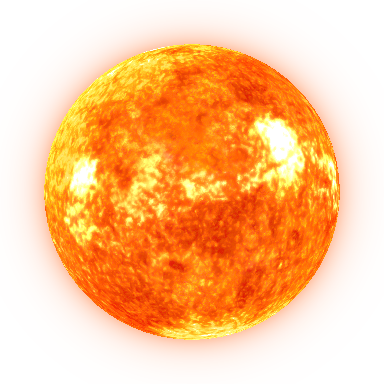
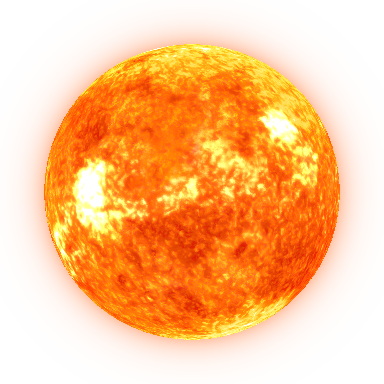
fix(objects): correct mirrored planetary longitudes and regenerate previews

diff --git a/packages/core/gate/planet-orientation.test.ts b/packages/core/gate/planet-orientation.test.ts
@@ -1,0 +1,54 @@
+import {afterEach, describe, expect, it, vi} from "vitest";
+import {createCanvasPlanetRenderer} from "../src/objects/planet-canvas-renderer";
+
+// Asymmetric equirectangular map: red increases west → east, green north → south.
+// Exercise the real pixel renderer; only image decoding and canvas storage are mocked.
+const width=256, height=128, size=65;
+function texture(cloud=false) {
+  const data=new Uint8ClampedArray(width*height*4);
+  for(let y=0;y<height;y++)for(let x=0;x<width;x++) {
+    const i=(y*width+x)*4;
+    data[i]=cloud?(x<width/2?255:0):Math.round(x/width*200);
+    data[i+1]=cloud?0:Math.round(y/height*200);
+    data[i+2]=cloud?0:40; data[i+3]=255;
+  }
+  return data;
+}
+afterEach(()=>vi.unstubAllGlobals());
+async function scene(clouds=false) {
+  const maps={surface:texture(),clouds:texture(true),black:new Uint8ClampedArray(width*height*4)};
+  class ImageStub {
+    width=width; height=height; data=new Uint8ClampedArray(); onload?:()=>void;
+    set src(value:string) {this.data=maps[value as keyof typeof maps];queueMicrotask(()=>this.onload?.());}
+  }
+  vi.stubGlobal("Image",ImageStub);
+  vi.stubGlobal("document",{createElement(){let data:Uint8ClampedArray;return {width,height,getContext(){return {
+    drawImage(img:ImageStub){data=img.data;},getImageData(){return {data};},
+  };}};}});
+  let pixels=new Uint8ClampedArray();
+  const canvas={width:size,height:size,getContext(){return {
+    createImageData(w:number,h:number){return {data:new Uint8ClampedArray(w*h*4)};},
+    putImageData(image:{data:Uint8ClampedArray}){pixels=image.data;},
+  };}} as unknown as HTMLCanvasElement;
+  const renderer=createCanvasPlanetRenderer(canvas,{surface:clouds?"black":"surface",clouds:clouds?"clouds":undefined,atmosphere:[0,0,0],star:true});
+  await renderer.ready;
+  return {renderer,pixel(x:number,y:number,channel=0){return pixels[(y*size+x)*4+channel];}};
+}
+describe("planet map orientation",()=>{
+  it.each([false,true])("keeps east right and north up, illustrated=%s",async illustrated=>{
+    const {renderer,pixel}=await scene();
+    for(const rotation of [-.25,0,.125]) {
+      renderer.draw({rotation,tilt:0,pitch:0,illustrated});
+      expect(pixel(20,32)).toBeLessThan(pixel(44,32));
+      expect(pixel(32,20,1)).toBeLessThan(pixel(32,44,1));
+    }
+    renderer.dispose();
+  });
+  it("keeps the western cloud bank on the left of the same meridian",async()=>{
+    const {renderer,pixel}=await scene(true);
+    renderer.draw({rotation:-.25,tilt:0,pitch:0,illustrated:false});
+    expect(pixel(20,32)).toBeGreaterThan(100);
+    expect(pixel(44,32)).toBe(0);
+    renderer.dispose();
+  });
+});

diff --git a/packages/core/src/objects/planet-renderer.ts b/packages/core/src/objects/planet-renderer.ts
@@ -11,7 +11,8 @@ uniform vec3 atmosphereColor;
 const float PI=3.14159265359;
 mat3 rx(float a){float c=cos(a),s=sin(a);return mat3(1.,0.,0.,0.,c,s,0.,-s,c);}
 mat3 rz(float a){float c=cos(a),s=sin(a);return mat3(c,s,0.,-s,c,0.,0.,0.,1.);}
-vec2 sphereUV(vec3 n,float turn){return vec2(fract(atan(n.z,n.x)/(2.*PI)+.5+turn),acos(clamp(n.y,-1.,1.))/PI);}
+// Camera sees +Z: longitude must increase left to right. Preserve the central meridian.
+vec2 sphereUV(vec3 n,float turn){return vec2(fract(1.-atan(n.z,n.x)/(2.*PI)+turn),acos(clamp(n.y,-1.,1.))/PI);}
 float grain(vec2 p){return fract(sin(dot(p,vec2(127.1,311.7)))*43758.5453);}
 void main(){
  float scale=mix(1.30,2.55,ringed);

diff --git a/packages/core/src/objects/planet-canvas-renderer.ts b/packages/core/src/objects/planet-canvas-renderer.ts
@@ -32,7 +32,8 @@ export function createCanvasPlanetRenderer(canvas:HTMLCanvasElement,config:{surf
    let color=[0,0,0],alpha=0,sphereT=100;
    if(rr<=1){
     const z=Math.sqrt(1-rr),n=orient(px,py,z);sphereT=4-z;
-    const u=Math.atan2(n[2],n[0])/(2*Math.PI)+.5,v=Math.acos(Math.max(-1,Math.min(1,n[1])))/Math.PI;
+    // Match WebGL: east is right on the visible +Z hemisphere; north stays up.
+    const u=1-Math.atan2(n[2],n[0])/(2*Math.PI),v=Math.acos(Math.max(-1,Math.min(1,n[1])))/Math.PI;
     let tex=sample(surface!,u+frame.rotation,v);
     const diffuse=Math.max(0,px*light[0]+py*light[1]+z*light[2]);
     let lighting=.12+.95*Math.pow(diffuse,.8);

diff --git a/packages/core/src/objects/PlanetObject.tsx b/packages/core/src/objects/PlanetObject.tsx
@@ -45,7 +45,7 @@ export function PlanetObject({id,label,size=360,style="photorealistic",playing=t
       const delta=last?Math.min((time-last)/1000,.05):0;last=time;
       if(active()){
         const v=settings.current.speed;
-        orientation.current.rotation+=delta/42*(Number.isFinite(v)?Math.max(.1,Math.min(3,v)):1)*(id==="venus"?-1:1);
+        orientation.current.rotation-=delta/42*(Number.isFinite(v)?Math.max(.1,Math.min(3,v)):1)*(id==="venus"?-1:1);
         if(time-lastDraw>=1000/maxFps){draw();lastDraw=time;}raf=requestAnimationFrame(tick);
       }
     };
